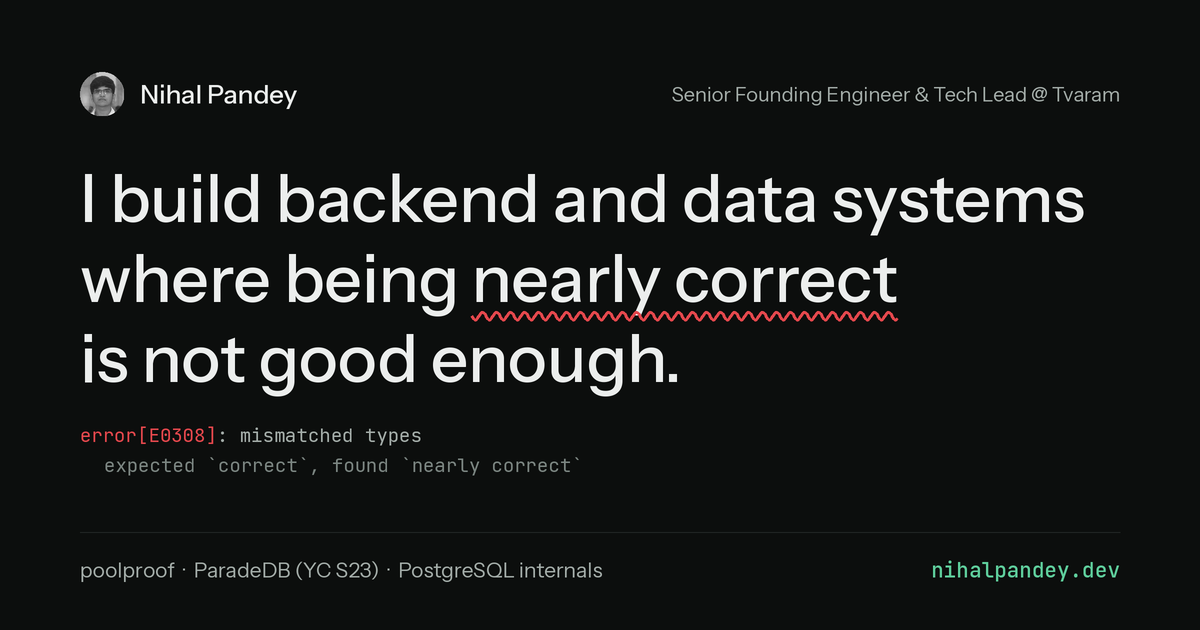
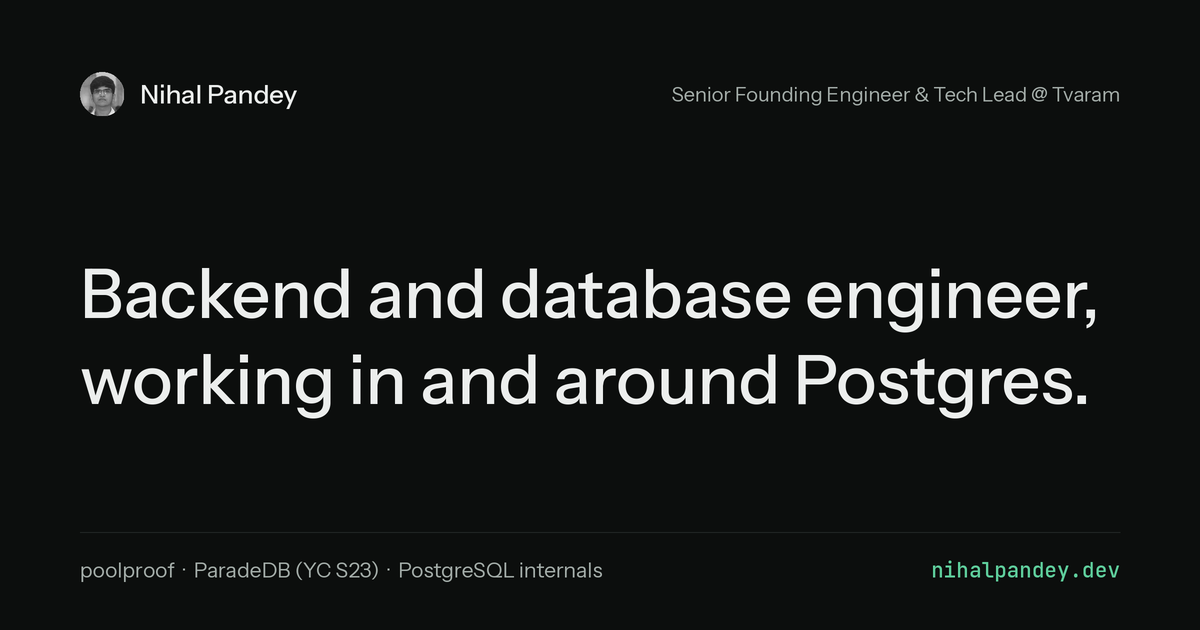
Use a plain headline and tighten the homepage copy
The hero now says what the work is instead of making a claim about it:
"Backend and database engineer, working in and around Postgres." The
flagged-phrase underline went with the old line, so its code is removed
and the social card is redrawn.

Copy changes keep to what the case studies state: the hero no longer
reads as employment at ParadeDB or calls hackathon projects production
systems, and the map note no longer says all 50 poolproof scenarios
come from bug reports.

The Writing section becomes Case Studies and lists all four; the id
stays #writing. Case study pages link to the next one, and the indexer
page links back to Projects.

Changed region(s): [[0.0617, 0.5429, 0.8942, 0.754], [0.0617, 0.3921, 0.925, 0.5429], [0.0617, 0.2714, 0.925, 0.3619]]

diff --git a/src/config/index.ts b/src/config/index.ts
@@ -5,13 +5,13 @@ export const SITE_CONFIG: SiteConfig = {
   title: "Nihal Pandey | Backend & Database Systems Engineer",
   author: "Nihal Pandey",
   description:
-    "Backend and database systems engineer focused on PostgreSQL internals and correctness. Author of poolproof, contributor to ParadeDB (YC S23). Senior founding engineer and tech lead at Tvaram, building Tasvam and MailTitan.",
+    "Backend and database systems engineer working on PostgreSQL internals and correctness. Author of poolproof, contributor to ParadeDB (YC S23), tech lead at Tvaram.",
   lang: "en",
   navLinks: [
     { text: "Open Source", href: "/#open-source" },
     { text: "Experience", href: "/#experience" },
     { text: "Projects", href: "/#projects" },
-    { text: "Writing", href: "/#writing" },
+    { text: "Case Studies", href: "/#writing" },
     { text: "Contact", href: "/#contact" },
   ],
   socialLinks: [
@@ -30,26 +30,20 @@ export const SITE_CONTENT: SiteContent = {
   hero: {
     name: "Nihal Pandey",
     role: "Senior Founding Engineer & Tech Lead @ Tvaram",
-    headline: "I build backend and data systems where being nearly correct is not good enough.",
-    flag: {
-      phrase: "nearly correct",
-      code: "error[E0308]",
-      message: "mismatched types",
-      detail: "expected `correct`, found `nearly correct`",
-    },
+    headline: "Backend and database engineer, working in and around Postgres.",
     map: [
       {
         where: "In front of it",
         layer: "connection poolers",
         name: "poolproof",
-        note: "Tests what a pooler changes: 50 scenarios, built from real bug reports.",
+        note: "Runs 50 scenarios against Postgres and through five poolers, and reports every step where the answers differ.",
         href: "#open-source",
       },
       {
         where: "Inside it",
         layer: "executor internals",
         name: "ParadeDB (YC S23)",
-        note: "3 PRs merged: wrong rows from JoinScan, a nested ExecutorRun panic, ctid lookups.",
+        note: "3 PRs merged: a self-join returning wrong rows, a panic on nested executor runs, a ctid lookup cleanup.",
         href: "#paradedb",
       },
       {
@@ -61,8 +55,8 @@ export const SITE_CONTENT: SiteContent = {
       },
     ],
     summary: [
-      "Most of my time goes into PostgreSQL: its executor internals at ParadeDB, and the connection poolers in front of it with poolproof. At Tvaram I'm building Tasvam and MailTitan, both launching soon.",
-      "Before that I wrote Rust security tooling at the Prime Minister's Office, and shipped production systems on Solana, EVM, Stellar and Kaspa, winning five hackathons along the way.",
+      "Most of my open-source work is on PostgreSQL: executor fixes in ParadeDB, and poolproof, which tests the connection poolers in front of it. At Tvaram I built the backends for Tasvam and MailTitan, both launching soon.",
+      "Before that I wrote Rust security tooling at the Prime Minister's Office and built on Solana, EVM, Stellar and Kaspa, winning five hackathons along the way.",
     ],
     email: "pandeynihal232@gmail.com",
     image: "/avatar.jpg", // 112px square, cut from nihal-real.jpg
@@ -77,11 +71,11 @@ export const SITE_CONTENT: SiteContent = {
       summary:
         "Poolers like PgBouncer, PgDog and Supavisor are meant to be invisible. In transaction mode they mostly are, until a `SET` leaks to another client, a temp table appears in someone else's session, or half a query string silently never runs. poolproof replays small scenarios against plain Postgres and then through the pooler, and reports every step where the two differ. Postgres is the oracle, so no scenario hardcodes expected output.",
       points: [
-        "**50 scenarios** across **PgBouncer, PgDog, Supavisor, PgCat and Odyssey**, multiple versions each, on Postgres 17 and 18, with a [results site](https://nihal-pandey-2302.github.io/poolproof/) showing every step's trace and the version where a behaviour broke or got fixed",
-        "Scenarios built from **14 upstream issues** in PgBouncer, PgDog and Supavisor, with the versions where each reproduces or stays fixed, e.g. PgDog acknowledging only the `BEGIN` of `BEGIN; INSERT; COMMIT` and never committing the insert ([pgdog#1849](https://github.com/pgdogdev/pgdog/issues/1849)), and Supavisor hanging on 4 pipelined requests in 9 of 10 runs ([supavisor#1239](https://github.com/supabase/supavisor/issues/1239))",
-        "`poolproof scan` reads `pg_stat_statements` exports, Postgres logs or `.sql` files, parses them with the real Postgres parser, and flags queries that break under transaction pooling, checked against what your pooler version actually did. SARIF output for code scanning",
-        "Runs real drivers (psycopg, pgx, node-postgres, pgjdbc) through each pooler; classifies failures as silent, error or hang, and separates documented limitations from bugs",
-        "Ships as signed binaries for Linux, macOS and Windows (SHA256SUMS + build attestation) and as a GitHub Action for CI",
+        "**50 scenarios** through **PgBouncer, PgDog, Supavisor, PgCat and Odyssey**, several versions of each, on Postgres 17 and 18. The [results site](https://nihal-pandey-2302.github.io/poolproof/) shows every step's trace and the version where a behaviour broke or was fixed.",
+        "Scenarios built from **14 upstream issues** in PgBouncer, PgDog and Supavisor, each with the versions where it reproduces or stays fixed. PgDog answers only the `BEGIN` of `BEGIN; INSERT; COMMIT` and never commits the insert if the client disconnects ([pgdog#1849](https://github.com/pgdogdev/pgdog/issues/1849)). Supavisor hangs on 4 pipelined requests in 9 of 10 runs ([supavisor#1239](https://github.com/supabase/supavisor/issues/1239)).",
+        "`poolproof scan` reads `pg_stat_statements` exports, Postgres logs or `.sql` files, parses them with the real Postgres parser, and flags the queries that break under transaction pooling, checked against what your pooler version actually did. SARIF output for code scanning.",
+        "Runs real drivers (psycopg, pgx, node-postgres, pgjdbc) through each pooler. Failures are classed as silent, error or hang, and documented limitations are kept apart from bugs.",
+        "Ships as signed binaries for Linux, macOS and Windows (SHA256SUMS and build attestation) and as a GitHub Action for CI.",
       ],
       repo: "https://github.com/Nihal-Pandey-2302/poolproof",
       results: "https://nihal-pandey-2302.github.io/poolproof/",
@@ -99,27 +93,27 @@ export const SITE_CONTENT: SiteContent = {
             ref: "#4763",
             url: "https://github.com/paradedb/paradedb/pull/4763",
             status: "merged",
-            text: "`JoinScan` returned wrong rows on self-joins with duplicate sort keys. Traced it to late materialization in the optimizer and rewrote physical projection to bind columns by index instead of by name; caught a misbinding in my own fix during review and rebuilt it",
+            text: "`JoinScan` returned wrong rows when a self-join sorted on a column name both sides share. Late materialization was deduplicating columns by name, so I rewrote physical projection to bind them by index. A second case run during review showed my fix misbinding, and I rebuilt it.",
             story: "/work/joinscan-wrong-rows",
           },
           {
             ref: "#4924",
             url: "https://github.com/paradedb/paradedb/pull/4924",
             status: "merged",
-            text: "Nested `ExecutorRun` panicked in `fake_aminsertcleanup` on PG16. Review found a second bug in my first fix, on the recursive DML path, so I replaced the depth counter with an RAII `FrameGuard` that gives every nesting level its own frame",
+            text: "A nested `ExecutorRun` panicked in `fake_aminsertcleanup` on PG16. Review found a second bug in my first fix, on the recursive DML path, so I replaced its depth counter with an RAII `FrameGuard` that gives every nesting level its own frame.",
             story: "/work/nested-executor-run",
           },
           {
             ref: "#4765",
             url: "https://github.com/paradedb/paradedb/pull/4765",
             status: "merged",
-            text: "Removed `ctid` from `SearchIndexScore` in favour of batched lookups, folding 5 duplicated ctid-lookup blocks into a single helper across 6 execution paths",
+            text: "Removed `ctid` from `SearchIndexScore` in favour of batched lookups, folding 5 duplicated ctid-lookup blocks into one helper used by 6 execution paths.",
           },
           {
             ref: "#5093",
             url: "https://github.com/paradedb/paradedb/issues/5093",
             status: "proposed",
-            text: "Replace the `resolve_physical_index` heuristic with explicit column lineage tracking, the structural follow-up to #4763",
+            text: "Replace the `resolve_physical_index` heuristic with explicit column lineage tracking: the structural follow-up to #4763.",
           },
         ],
       },
@@ -163,9 +157,9 @@ export const SITE_CONTENT: SiteContent = {
       startDate: "June",
       endDate: "Sept 2025",
       summary: [
-        "Wrote Tokio-based Rust tooling that automated vulnerability scanning across critical government infrastructure, cutting manual assessment time by **over 60%** with no downtime during rollout",
-        "Threat-modelling workflows I built were picked up by **2 internal teams**",
-        "Details under NDA",
+        "Wrote Tokio-based Rust tooling that automated vulnerability scanning across critical government infrastructure, cutting manual assessment time by **over 60%** with no downtime during rollout.",
+        "Threat-modelling workflows I built were picked up by **2 internal teams**.",
+        "Details under NDA.",
       ],
     },
   ],
@@ -254,22 +248,38 @@ export const SITE_CONTENT: SiteContent = {
     },
   ],
 
-  // Writing Section
+  // Case studies. The section keeps the id #writing: it is a link target
   writing: [
     {
-      title: "Wrong Rows From a Self-Join",
+      title: "What a connection pooler changes",
       summary:
-        "A self-join with duplicate sort keys was returning wrong rows. How I traced it through the optimizer, where my first fix went wrong, and how physical projection got rebuilt on column indices.",
-      link: "/work/joinscan-wrong-rows",
-      badge: "PostgreSQL Internals · Case study",
+        "How poolproof compares Postgres with the pooler in front of it, and the work it took before a pass meant anything: proving two clients shared a backend, probing the pool's real shape, and results that flip between runs.",
+      link: "/work/poolproof",
+      badge: "poolproof · Connection poolers",
       status: "published",
     },
     {
-      title: "A Panic on PG16, and the Fix That Needed Fixing",
+      title: "Wrong rows from a self-join",
       summary:
-        "Why a depth counter can't model recursive DML in executor hooks, the test that proved nothing, and how an RAII FrameGuard fixes it.",
+        "A self-join that sorted on a shared column name returned the wrong rows. The cause was one line comparing columns by name, my first fix made the same kind of mistake, and the merged one resolves each sort column against the child schema.",
+      link: "/work/joinscan-wrong-rows",
+      badge: "ParadeDB #4763 · PostgreSQL internals",
+      status: "published",
+    },
+    {
+      title: "A panic on PG16, and the fix that needed fixing",
+      summary:
+        "Why a depth counter can't model recursive DML in executor hooks, the test that proved nothing, and the RAII FrameGuard that replaced it.",
       link: "/work/nested-executor-run",
-      badge: "PostgreSQL Internals · Case study",
+      badge: "ParadeDB #4924 · PostgreSQL internals",
+      status: "published",
+    },
+    {
+      title: "Re-reading a crash-safe indexer",
+      summary:
+        "One Postgres transaction per block, checkpoint included, held up. A re-read eighteen months later found three ways the rest could still lose or duplicate data, and the tests written to fix them found two more.",
+      link: "/work/evm-indexer",
+      badge: "Ethereum EVM Indexer · Data integrity",
       status: "published",
     },
   ],

diff --git a/src/types/index.ts b/src/types/index.ts
@@ -28,9 +28,6 @@ export interface HeroContent {
   name: string;
   role: string;
   headline: string;
-  // A phrase in the headline to underline like a compiler error, and the
-  // diagnostic shown when it is hovered or focused
-  flag?: { phrase: string; code: string; message: string; detail: string };
   summary: string[]; // paragraphs, rich
   // The hero figure: places around Postgres and the work done at each.
   // Map.astro draws exactly three, in this order: pooler, Postgres, pipeline.
